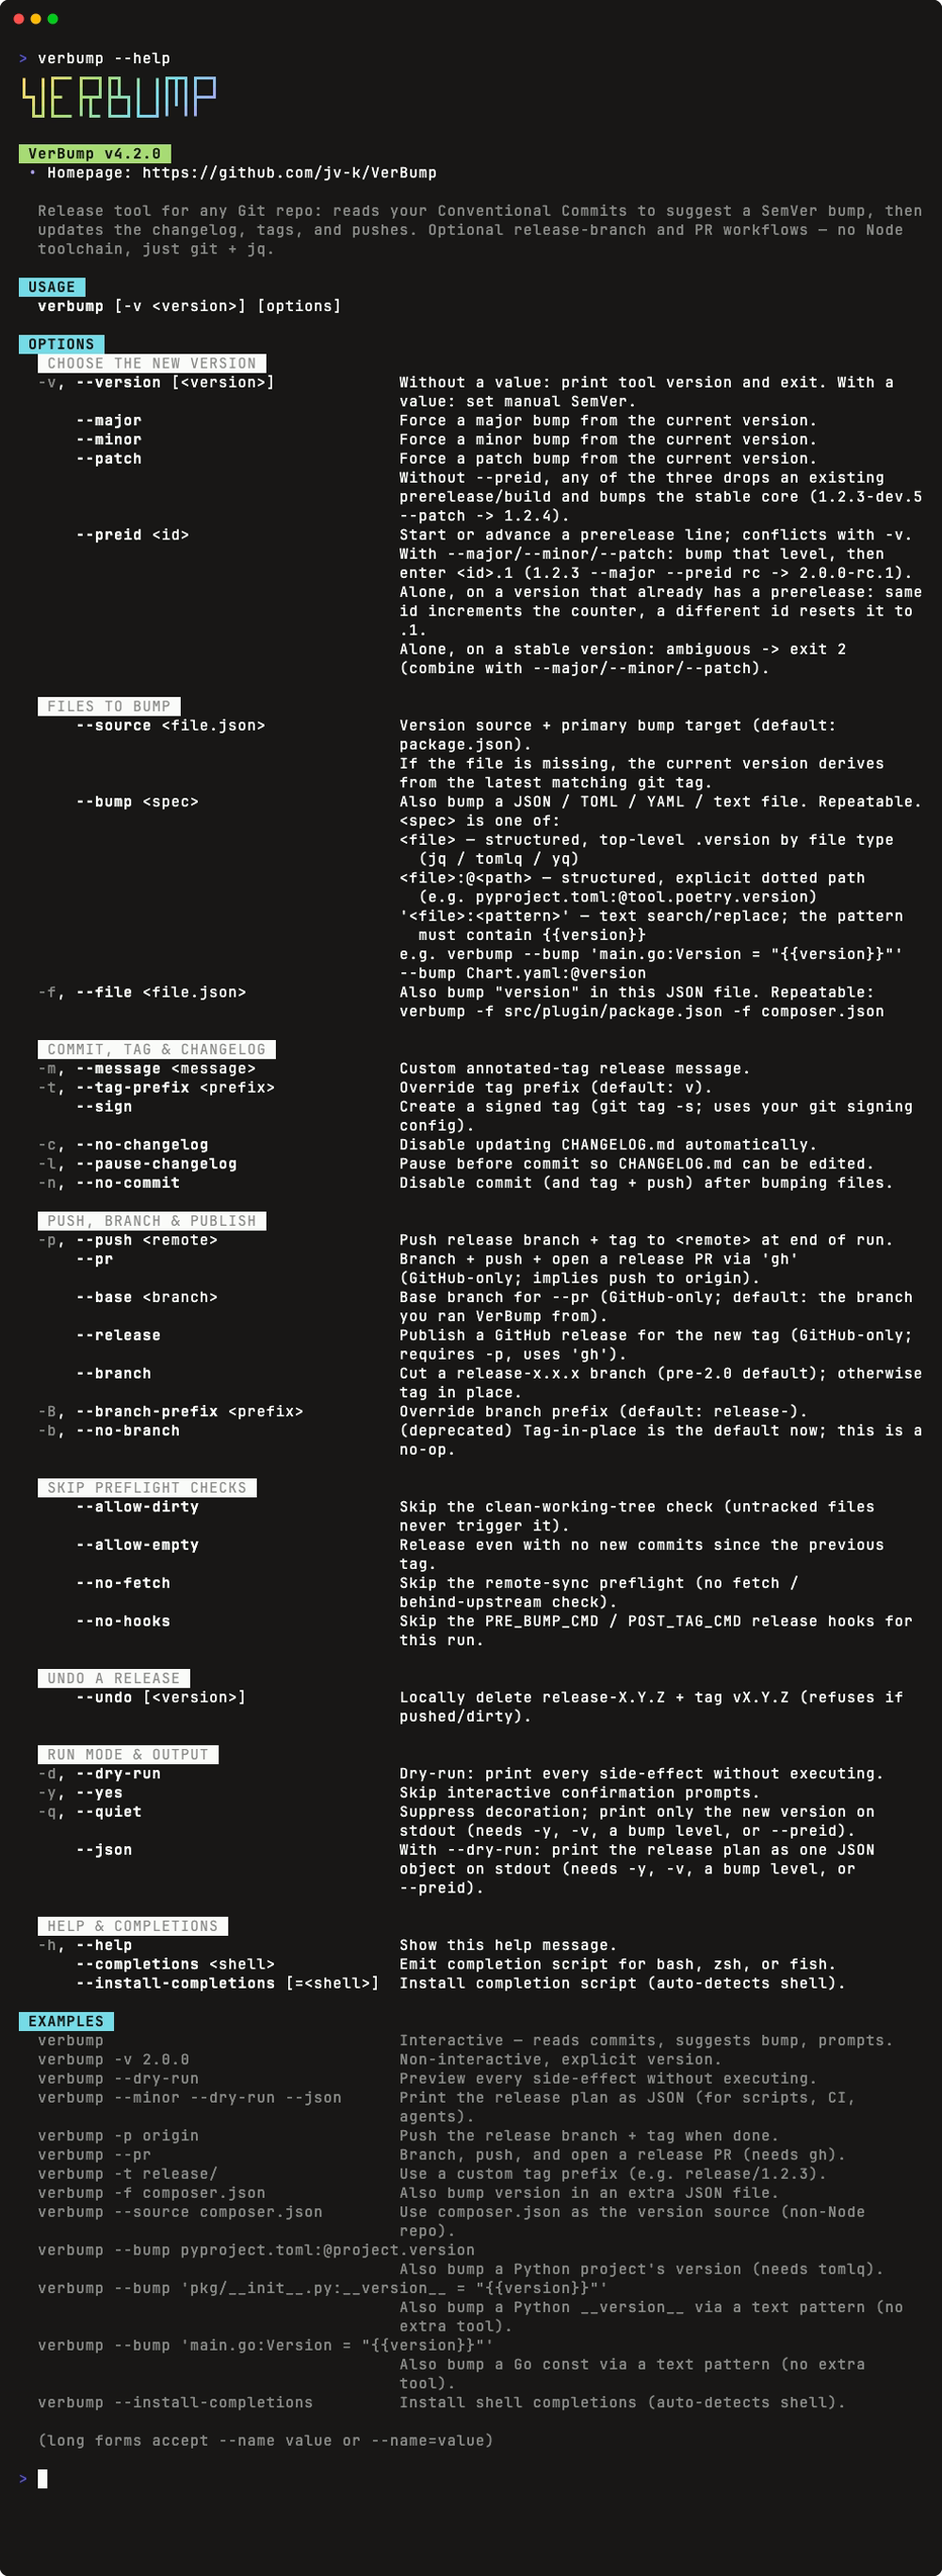
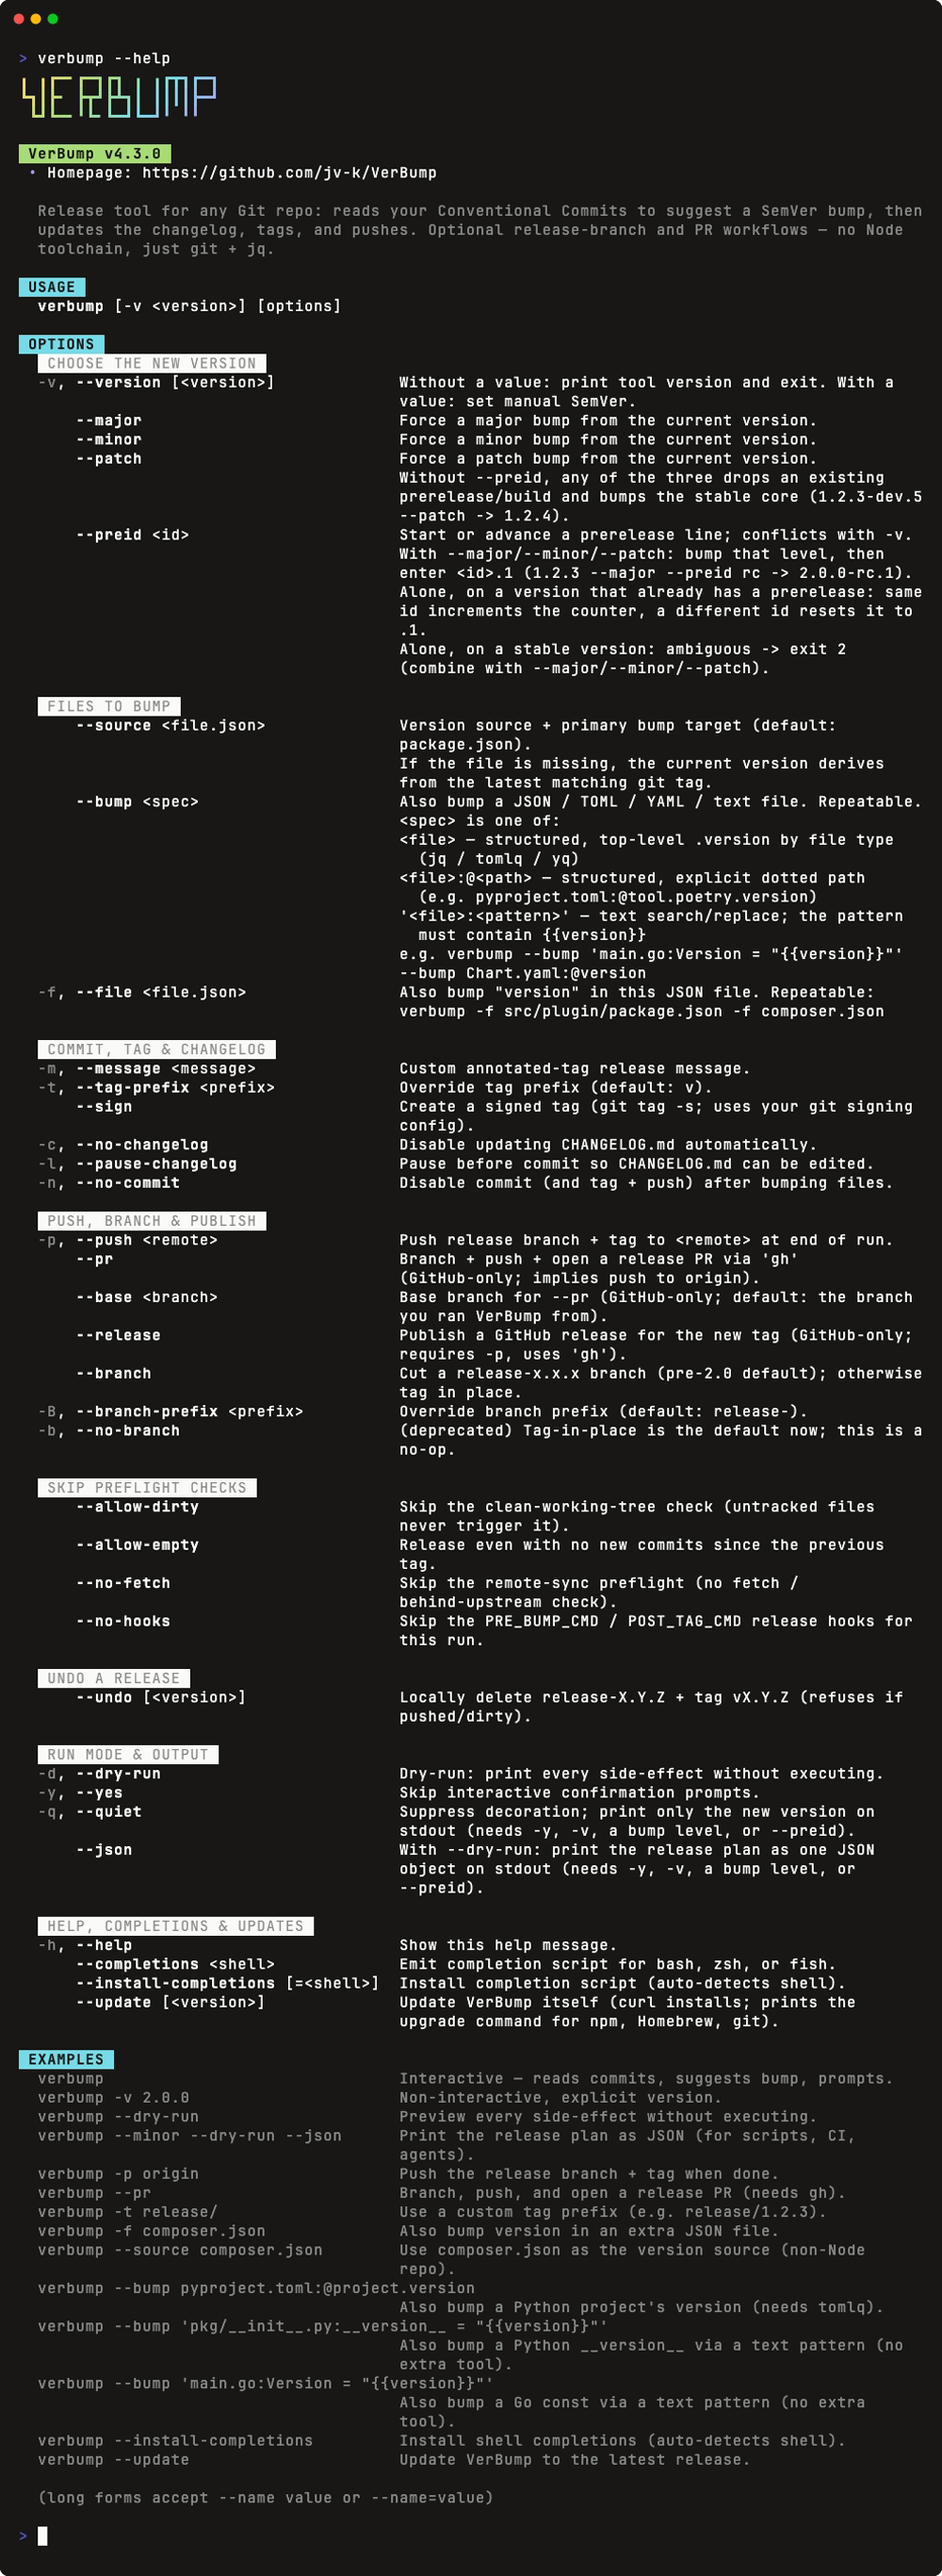
chore: updated package.json, updated CHANGELOG.md, bumped 4.2.0 -> 4.3.0

Changed region(s): [[0.0, 0.7778, 0.93, 0.9956], [0.217, 0.7467, 0.341, 0.7778]]

diff --git a/CHANGELOG.md b/CHANGELOG.md
@@ -1,3 +1,9 @@
+## 4.3.0 (2026-11-04)
+- chore: updated package.json, updated CHANGELOG.md, bumped 4.2.0 -> 4.3.0
+- feat(publish): add --update to update VerBump in place (#152)
+- feat(publish): add --update to update VerBump in place
+- docs(docs): drop the readme wordmark, the hero already shows it
+
 ## 4.2.0 (2026-11-04)
 - chore: updated package.json, updated CHANGELOG.md, bumped 4.1.1 -> 4.2.0
 - feat(ui): draw the wordmark in a diagonal Monokai Pro gradient (#150)
